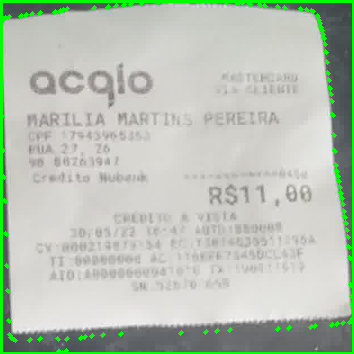
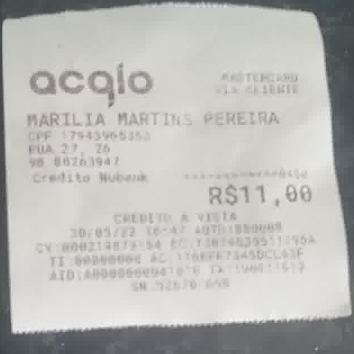
updating results

diff --git a/main.py b/main.py
@@ -34,7 +34,7 @@ def scan_document(img, img_name="scanned_img", save_steps=True, show_steps=True)
     cnt = max(contours, key = cv2.contourArea)
     x, y, w, h = cv2.boundingRect(cnt)  
 
-    cropped_img = img[y:y+h, x:x+w]
+    cropped_img = orig_img[y:y+h, x:x+w]
     cv2.rectangle(img, (x, y), (x + w, y + h), (0, 255, 0), 3)
     # cv2.drawContours(img, cnt, -1, (0, 255, 0), 3)
 
